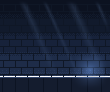
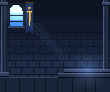
style(cosmetics): 전설의 검 — 자루를 크고 화려하게, 성소를 채워 덜 썰렁하게
- 자루: 가시 달린 금 받침의 큰 보석 자루끝, 사선으로 감은 가죽 손잡이, 끝이 처져 말리는
  날개 코등이와 가운데 마름모 보석. 칼날은 7칸으로 넓히고 푸른 룬을 새겼다
- 둘레: 바닥 룬 고리가 돌고, 수정 조각 셋이 검을 맴돌며(뒤로 갈 땐 칼날 뒤로), 제단과
  벽 아래에 파란 촛불이 깜빡인다
- 배경: 왼쪽 위 아치 창(빛줄기가 여기서 든다), 양옆 돌기둥, 금 검 문양의 푸른 깃발, 제단 두 계단

diff --git a/scripts/pixelfx/cards/card-sword.js b/scripts/pixelfx/cards/card-sword.js
@@ -1,80 +1,152 @@
-// Nexus card "전설의 검": a big sword planted upright in a cracked stone beside the portrait. A faint pillar of blue
-// light rises behind it, the cracks in the stone breathe with the same light, a glint runs down the blade once a
-// loop and motes drift up round it. (loot-beam's own sword lies flat and small; this one stands.)
-import { fit, ease, cycle, WHITE, hex, mix, rand } from "../../core/index.js";
+// Nexus card "전설의 검": a big sword planted upright in a cracked stone on an altar beside the portrait.
+// A pillar of blue light rises behind it, a rune ring turns on the floor, crystal shards orbit it, blue-flame
+// candles burn on the altar, the cracks in the stone breathe with the light and a glint runs down
+// the blade once a loop. (loot-beam's own sword lies flat and small; this one stands.)
+import { fit, ease, cycle, WHITE, hex, rand } from "../../core/index.js";
 import { glint } from "../pickups/_lib.js";
 import { CARD } from "./_card.js";
 
 export const meta = {
-  name: "Card: sword", desc: "A legendary sword planted upright in a cracked stone, a pillar of blue light behind it, a glint running down the blade.",
-  tags: ["card", "sword", "light", "loop"], ...CARD, duration: 3, loop: true, fps: 20, bg: "dark",
+  name: "Card: sword", desc: "A legendary sword planted in a cracked stone on an altar: a pillar of light, a turning rune ring, orbiting shards, blue candles.",
+  tags: ["card", "sword", "light", "loop"], ...CARD, duration: 4, loop: true, fps: 20, bg: "dark",
   options: { palette: ["#06122a", "#0c2450", "#123a86", "#1e5ec0", "#3a8af0", "#82c0ff", "#d4ecff", "#ffffff"], seed: 4 },
 };
 
 const D = meta.duration;
-// where the sword stands: blade axis x, the stone's top, the parts top to bottom
-const X = 88, STONE = 72, POMMEL = 28, GUARD = 39, BLADE0 = 42;
+// where the sword stands: blade axis x, the stone's top, the hilt top to bottom
+const X = 86, STONE = 68, POMMEL = 18, GUARD = 34, BLADE0 = 38;
 const INK = hex("#070a14");
 const STEEL = ["#2a3346", "#4b5875", "#8a9ab8", "#c9d6ee", "#f2f7ff"].map(hex);
-const GOLD = ["#5a3b12", "#9a6a1e", "#d6a23a", "#ffe08a"].map(hex);
-const LEATHER = ["#2a1610", "#4a2a1a", "#6e4228"].map(hex);
+const GOLD = ["#3d260a", "#7a5216", "#b8862a", "#e8bd52", "#fff0b0"].map(hex);
+const LEATHER = ["#1e0f0b", "#3e2216", "#5f3622", "#84513a"].map(hex);
 const ROCK = ["#141a28", "#222a3c", "#323d55", "#46536f"].map(hex);
+const WAX = ["#3a4258", "#6a7594", "#a3adc8"].map(hex);
+
+/** a small candle: a wax stick h tall with a drip, a blue flame that flickers on its own clock, a little light */
+function smallCandle(p, C, t, x, base, h, seed) {
+  p.rect(x - 2, base - h - 1, 5, h + 1, INK);
+  p.rect(x - 1, base - h, 3, h, WAX[1]);
+  p.rect(x - 1, base - h, 1, h, WAX[2]);
+  p.px(x + 1, base - h + 1 + (seed % 2), WAX[2]);
+  p.rect(x - 3, base, 7, 1, GOLD[1]);
+  const f = Math.sin(t * 9 + seed * 2) * 0.5 + Math.sin(t * 23 + seed) * 0.5, tall = 3 + (f > 0.3 ? 1 : 0), lean = f < -0.5 ? -1 : f > 0.7 ? 1 : 0;
+  const fy = base - h - 1;
+  p.px(x, fy, C[3]);
+  for (let k = 1; k <= tall; k++) p.px(x + (k === tall ? lean : 0), fy - k, k === 1 ? WHITE : k === 2 ? C[6] : C[5]);
+  if (tall > 3) p.px(x - 1 + (lean > 0 ? 2 : 0), fy - 1, C[5]);
+  p.glow(x, fy - 2, 9, C[5], 0.3 + 0.08 * f);
+}
+
+/** the hilt: a pommel gem in a gold cup with a spike, a diamond-wrapped grip, winged quillons with a gem at the heart */
+function hilt(p, C, breath) {
+  // pommel: spike, gold cup, a big round gem
+  p.rect(X, POMMEL - 4, 1, 2, INK); p.px(X, POMMEL - 3, GOLD[3]);
+  p.disc(X + 0.5, POMMEL + 1.5, 4.4, INK);
+  p.disc(X + 0.5, POMMEL + 1.5, 3.5, GOLD[2]);
+  p.disc(X + 0.2, POMMEL + 1.2, 3.5, GOLD[3], 0.6);
+  p.disc(X + 0.5, POMMEL + 1.5, 2.3, C[3]);
+  p.disc(X + 0.2, POMMEL + 1.2, 1.4, C[5]);
+  p.px(X - 1, POMMEL, WHITE);
+  p.glow(X, POMMEL + 1, 10, C[5], 0.4 * breath);
+  // a collar between pommel and grip
+  p.rect(X - 2, POMMEL + 5, 5, 2, INK); p.rect(X - 1, POMMEL + 5, 3, 1, GOLD[3]); p.rect(X - 1, POMMEL + 6, 3, 1, GOLD[1]);
+  // grip: 5 wide with an ink edge, leather wrapped in diagonal bands, lit on the left
+  for (let y = POMMEL + 7; y < GUARD - 1; y++) {
+    p.px(X - 2, y, INK); p.px(X + 2, y, INK);
+    for (let dx = -1; dx <= 1; dx++) {
+      const band = (y + dx) % 3 === 0;
+      p.px(X + dx, y, band ? LEATHER[0] : dx < 0 ? LEATHER[3] : dx === 0 ? LEATHER[2] : LEATHER[1]);
+    }
+  }
+  // quillons: a thick gold bar whose wings droop and curl at the tips
+  for (let dx = -12; dx <= 12; dx++) {
+    const a = Math.abs(dx), droop = Math.round(Math.pow(a / 12, 2.2) * 4), y0 = GUARD - 1 + droop, th = a > 10 ? 2 : 3;
+    p.px(X + dx, y0 - 1, INK);
+    for (let k = 0; k < th; k++) p.px(X + dx, y0 + k, k === 0 ? (dx < 0 ? GOLD[4] : GOLD[3]) : k === th - 1 ? GOLD[1] : GOLD[2]);
+    p.px(X + dx, y0 + th, INK);
+  }
+  // curled tips
+  for (const s of [-1, 1]) { p.px(X + s * 13, GUARD + 2, INK); p.px(X + s * 13, GUARD + 3, GOLD[2]); p.px(X + s * 13, GUARD + 4, INK); p.px(X + s * 12, GUARD + 5, INK); }
+  // a lozenge gem at the heart of the guard
+  for (let dy = -3; dy <= 3; dy++) {
+    const w = 3 - Math.abs(dy);
+    for (let dx = -w - 1; dx <= w + 1; dx++) p.px(X + dx, GUARD + 1 + dy, Math.abs(dx) === w + 1 ? INK : dx < 0 && dy < 0 ? C[6] : dy > 0 ? C[3] : C[4]);
+  }
+  p.px(X - 1, GUARD - 1, WHITE);
+  p.glow(X, GUARD + 1, 9, C[5], 0.35 * breath);
+}
 
 export function draw(p, t, o) {
   const C = fit(o.palette, 8), ph = t / D;
   const breath = 0.75 + 0.25 * Math.sin(ph * Math.PI * 2);
 
-  // the pillar of light behind it: soft, additive, widest at the stone, thinning to the sky
-  p.shade(X - 9, 0, X + 9, STONE, (x, y, out) => {
-    const d = Math.abs(x + 0.5 - X) / (3 + 5 * (y / STONE));
+  // the pillar of light behind it: additive, widest at the stone, thinning to the sky, pulses climbing it
+  p.shade(X - 11, 0, X + 11, STONE, (x, y, out) => {
+    const d = Math.abs(x + 0.5 - X) / (4 + 6 * (y / STONE));
     if (d >= 1) return;
-    const pulse = 0.5 + 0.5 * Math.sin((y / 10 + ph * 3) * Math.PI * 2);
+    const pulse = 0.5 + 0.5 * Math.sin((y / 9 + ph * 4) * Math.PI * 2);
     out.l = d < 0.35 ? C[6] : C[5];
-    out.k = (0.16 + 0.08 * pulse) * (1 - d) * (0.35 + 0.65 * (y / STONE)) * breath;
+    out.k = (0.2 + 0.1 * pulse) * (1 - d) * (0.3 + 0.7 * (y / STONE)) * breath;
   });
-  p.glow(X, STONE - 4, 26, C[4], 0.35 * breath);
+  p.glow(X, STONE - 6, 30, C[4], 0.4 * breath);
+
+  // the rune ring on the altar floor, round the stone: dashes of light that turn, brightest at the front
+  for (let i = 0; i < 64; i++) {
+    const a = (i / 64) * Math.PI * 2, x = X + Math.cos(a) * 22, y = STONE + 5 + Math.sin(a) * 3.5;
+    const on = (i + Math.floor(ph * 64)) % 8 < 5, front = Math.sin(a) > 0;
+    if (!on) continue;
+    p.px(x, y, front ? C[5] : C[3]);
+    if (front) p.glow(x, y, 3, C[5], 0.12 * breath);
+  }
+
+  // small candles on the altar and at the foot of the wall, blue flames
+  smallCandle(p, C, t, X - 20, STONE + 4, 6, 1);
+  smallCandle(p, C, t, X - 15, STONE + 6, 4, 2);
+  smallCandle(p, C, t, X + 17, STONE + 5, 5, 3);
+  smallCandle(p, C, t, 10, 78, 7, 4);
+  smallCandle(p, C, t, 16, 79, 4, 5);
+
+  // crystal shards orbiting the blade on a tilted ring: behind the blade when they're far, in front when near
+  const shard = (front) => {
+    for (let i = 0; i < 3; i++) {
+      const a = ph * Math.PI * 2 + (i * Math.PI * 2) / 3, near = Math.sin(a) > 0;
+      if (near !== front) continue;
+      const x = X + Math.cos(a) * 15, y = 48 + Math.sin(a) * 4 + 2 * Math.sin(ph * Math.PI * 4 + i);
+      const c = near ? C[6] : C[4];
+      p.px(x, y - 2, INK); p.px(x - 1, y - 1, INK); p.px(x + 1, y - 1, INK); p.px(x - 1, y, INK); p.px(x + 1, y, INK); p.px(x, y + 2, INK);
+      p.px(x, y - 1, c); p.px(x, y, near ? C[5] : C[3]); p.px(x, y + 1, C[3]);
+      p.glow(x, y, 5, C[5], near ? 0.3 : 0.12);
+    }
+  };
+  shard(false);
 
   // motes drifting up round the sword
-  cycle(t, D, 14, o.seed + 3, (g) => g.range(1.2, 2.2), (age, life, r) => {
-    const x = X + r.range(-10, 10) + 2 * Math.sin(age * 3 + r.range(0, 6)), y = STONE - 2 - age * r.range(12, 22);
+  cycle(t, D, 18, o.seed + 3, (g) => g.range(1.2, 2.2), (age, life, r) => {
+    const x = X + r.range(-12, 12) + 2 * Math.sin(age * 3 + r.range(0, 6)), y = STONE - 2 - age * r.range(12, 22);
     const k = Math.sin((age / life) * Math.PI);
     if (k > 0.55) p.px(x, y, k > 0.85 ? WHITE : C[6]);
     else if (k > 0.25) p.px(x, y, C[5]);
     p.glow(x, y, 3, C[5], 0.2 * k);
   });
 
-  // the blade: 5 px wide, an ink outline, a lit left bevel, a bright ridge, a dark right bevel, tapering into the stone
+  // the blade: 7 px wide with an ink outline, a lit left bevel, a bright ridge, a dark right bevel
   for (let y = BLADE0; y <= STONE + 1; y++) {
-    const taper = y > STONE - 4 ? 1 : 2; // narrower where it bites into the stone
-    for (let dx = -taper - 1; dx <= taper + 1; dx++) {
-      const edge = Math.abs(dx) === taper + 1;
-      p.px(X + dx, y, edge ? INK : dx < 0 ? STEEL[dx === -taper ? 3 : 2] : dx === 0 ? STEEL[4] : STEEL[1]);
+    const half = y > STONE - 5 ? 2 : 3;
+    for (let dx = -half; dx <= half; dx++) {
+      const edge = Math.abs(dx) === half;
+      p.px(X + dx, y, edge ? INK : dx < 0 ? STEEL[dx === -half + 1 ? 3 : 2] : dx === 0 ? STEEL[4] : STEEL[dx === 1 ? 1 : 0]);
     }
   }
-  // a fuller groove down the middle of the upper blade
-  for (let y = BLADE0 + 2; y < BLADE0 + 14; y++) p.px(X, y, STEEL[2]);
-  // the guard: a gold bar with curled ends, a blue stone at its heart
-  p.rect(X - 8, GUARD - 1, 17, 5, INK);
-  p.rect(X - 7, GUARD, 15, 3, GOLD[2]);
-  p.rect(X - 7, GUARD, 15, 1, GOLD[3]);
-  p.rect(X - 7, GUARD + 2, 15, 1, GOLD[1]);
-  for (const s of [-1, 1]) { p.px(X + s * 8, GUARD - 2, INK); p.px(X + s * 7, GUARD - 1, GOLD[1]); }
-  p.rect(X - 1, GUARD, 3, 3, C[4]);
-  p.px(X, GUARD + 1, C[6]);
-  p.px(X - 1, GUARD, WHITE);
-  // the grip: leather wraps
-  p.rect(X - 2, POMMEL + 3, 5, GUARD - POMMEL - 3, INK);
-  for (let y = POMMEL + 4; y < GUARD - 1; y++) for (let dx = -1; dx <= 1; dx++) p.px(X + dx, y, LEATHER[(y + (dx < 0 ? 1 : 0)) % 2 ? 2 : 1]);
-  // the pommel: a round blue stone in a gold cup, glowing with the pillar
-  p.disc(X + 0.5, POMMEL + 1.5, 3.2, INK);
-  p.disc(X + 0.5, POMMEL + 1.5, 2.3, GOLD[1]);
-  p.disc(X + 0.5, POMMEL + 1.5, 1.4, C[4]);
-  p.px(X - 1, POMMEL, C[7]);
-  p.glow(X, POMMEL + 1, 8, C[5], 0.35 * breath);
+  // a fuller groove and a blue rune etched into the upper blade
+  for (let y = BLADE0 + 2; y < BLADE0 + 16; y++) p.px(X, y, STEEL[2]);
+  for (const [dx, dy] of [[0, 5], [-1, 6], [1, 6], [0, 7], [0, 10], [-1, 11], [0, 12]]) p.px(X + dx, BLADE0 + dy, C[5]);
+  p.glow(X, BLADE0 + 8, 6, C[5], 0.25 * breath);
+  hilt(p, C, breath);
+  shard(true);
 
-  // the stone it is buried in: a lumpy rock, lit from the left, cracks glowing blue
-  p.shade(X - 13, STONE - 4, X + 13, STONE + 10, (x, y, out) => {
-    const dx = (x + 0.5 - X) / 13, top = STONE - 3 + Math.round(3 * dx * dx + rand(Math.floor(x / 3), 11));
+  // the stone it is buried in: a lumpy rock, lit from the left, a few cracks glowing blue
+  p.shade(X - 14, STONE - 4, X + 14, STONE + 10, (x, y, out) => {
+    const dx = (x + 0.5 - X) / 14, top = STONE - 3 + Math.round(3 * dx * dx + rand(Math.floor(x / 3), 11));
     if (y < top) return;
     if (y === top) return dx < 0 ? ROCK[3] : ROCK[2];
     const crack = rand(x, y, 5) < 0.012 || (Math.abs(x - X) === 2 && y < STONE + 4) || (Math.abs(x - X - (y - STONE) * 0.8) < 0.6 && y > STONE);

diff --git a/scripts/pixelfx/cards/bg-sword.js b/scripts/pixelfx/cards/bg-sword.js
@@ -1,30 +1,84 @@
-// Nexus card "전설의 검" backdrop: a dark stone sanctum, shafts of light falling from above, a worn altar floor.
-import { sky, halo, ridge, W, H } from "./_bg.js";
+// Nexus card "전설의 검" backdrop: a dark stone sanctum. An arched window high on the left throws shafts of light
+// across it, stone pillars stand at both edges, a blue banner with a gold sword hangs by the window, and the sword's
+// altar is two worn steps on the right.
+import { sky, halo, W } from "./_bg.js";
 import { CARD } from "./_card.js";
 import { hex, rand } from "../../core/index.js";
-export const meta = { name: "Card bg: sword", desc: "Stone sanctum with shafts of light.", tags: ["card", "bg"], ...CARD, duration: 0.05, loop: true, fps: 20, bg: "dark", options: { seed: 1 } };
+export const meta = { name: "Card bg: sword", desc: "Stone sanctum: arched window, light shafts, pillars, banner, altar steps.", tags: ["card", "bg"], ...CARD, duration: 0.05, loop: true, fps: 20, bg: "dark", options: { seed: 1 } };
+
+const INK = hex("#070a14");
+const STONE = ["#121a2a", "#1a2438", "#243049", "#33415e", "#4a5a7c"].map(hex);
+const GOLD = ["#5a3b12", "#b8862a", "#e8bd52"].map(hex);
+
+function pillar(p, x, w) {
+  p.rect(x, 0, w, 80, STONE[2]);
+  p.rect(x, 0, 1, 80, STONE[4]);
+  p.rect(x + w - 1, 0, 1, 80, STONE[0]);
+  for (let k = 2; k < w - 2; k += 2) p.rect(x + k, 6, 1, 66, STONE[1]); // flutes
+  // capital and base
+  p.rect(x - 1, 2, w + 2, 4, STONE[3]); p.rect(x - 1, 2, w + 2, 1, STONE[4]); p.rect(x - 1, 5, w + 2, 1, INK);
+  p.rect(x - 2, 72, w + 4, 5, STONE[3]); p.rect(x - 2, 72, w + 4, 1, STONE[4]); p.rect(x - 2, 76, w + 4, 1, INK);
+}
 
 export function draw(p) {
-  sky(p, ["#0c1220", "#111a2c", "#17223a", "#1e2c48", "#263656"], 0, 76, 1);
-  // stone blocks on the back wall: a slightly darker mortar grid, rows offset
+  sky(p, ["#0c1220", "#111a2c", "#17223a", "#1e2c48", "#263656"], 0, 80, 1);
+  // stone blocks on the back wall: a darker mortar grid, rows offset
   const mortar = hex("#0f1726");
-  for (let y = 4; y < 76; y += 7) {
+  for (let y = 4; y < 80; y += 7) {
     p.rect(0, y, W, 1, mortar);
     for (let x = ((y / 7) % 2) * 6; x < W; x += 12) p.rect(x, y, 1, 7, mortar);
   }
-  // shafts of light slanting down from a high window
+
+  // the arched window, high on the left: an ink frame, mullions, glass bright at the top
+  const WX = 10, WY = 5, WW = 13, WH = 22, r = WW / 2;
+  p.shade(WX - 1, WY - 1, WX + WW, WY + WH, (x, y) => {
+    const cx = WX + r - 0.5, top = WY + r;
+    const inside = y >= top ? x >= WX && x < WX + WW : Math.hypot(x - cx, y - top) <= r;
+    const frame = y >= top ? x >= WX - 1 && x <= WX + WW : Math.hypot(x - cx, y - top) <= r + 1.2;
+    if (!frame) return;
+    if (!inside || y >= WY + WH - 1) return INK;
+    if (x === Math.round(cx) || y === top + 4 || y === top + 10) return INK; // lead
+    return (y - WY) / WH < 0.35 ? hex("#d4ecff") : (y - WY) / WH < 0.7 ? hex("#82c0ff") : hex("#3a8af0");
+  });
+  p.rect(WX - 2, WY + WH - 1, WW + 4, 2, STONE[3]); // sill
+  halo(p, WX + r, WY + 8, 22, "#8fb4e8", 0.35);
+
+  // shafts of light slanting from the window down to the right
   const beam = hex("#8fb4e8");
-  p.shade(0, 0, W - 1, 78, (x, y, o) => {
-    const u = (x - 0.45 * y);
-    for (const [c, w] of [[22, 5], [44, 3], [70, 6], [96, 3]]) {
+  p.shade(0, WY, W - 1, 80, (x, y, o) => {
+    const u = x - (y - WY) * 0.9;
+    for (const [c, w] of [[WX + 2, 2.5], [WX + 7, 3.5], [WX + 11, 2]]) {
       const d = Math.abs(u - c) / w;
-      if (d < 1) { o.l = beam; o.k = 0.14 * (1 - d) * (1 - y / 90); return; }
+      if (d < 1 && y > WY + WH - 4) { o.l = beam; o.k = 0.13 * (1 - d) * (1 - (y - WY) / 90); return; }
     }
   });
-  halo(p, 90, 70, 24, "#7fb0ff", 0.35);
-  // the floor: flagstones with lit edges
-  ridge(p, 77, 0, 10, 1, "#141c2e");
-  const edge = hex("#33456a"), crack = hex("#0c1322");
-  p.rect(0, 77, W, 1, edge);
-  for (let x = 0; x < W; x += 14) p.rect(x + Math.round(rand(x, 3) * 4), 78, 1, 14, crack);
+
+  // a banner by the window: dark blue cloth, gold trim and a gold sword, a swallowtail hem
+  const BX = 26, BW = 7;
+  p.rect(BX - 1, 2, BW + 2, 1, GOLD[0]);
+  p.shade(BX, 3, BX + BW - 1, 34, (x, y) => {
+    const hem = 30 + Math.abs(x - (BX + 3)) ;
+    if (y > hem) return;
+    if (x === BX || x === BX + BW - 1) return GOLD[1];
+    return y % 9 === 0 ? hex("#16264a") : hex("#1c3160");
+  });
+  // the emblem: a sword point-down — round pommel, grip, a guard with drooping ends, a long blade to a point
+  p.rect(BX + 2, 7, 3, 2, GOLD[1]); p.px(BX + 3, 7, GOLD[2]);
+  p.px(BX + 3, 9, GOLD[0]); p.px(BX + 3, 10, GOLD[0]);
+  p.rect(BX + 1, 11, 5, 1, GOLD[2]); p.px(BX + 1, 12, GOLD[1]); p.px(BX + 5, 12, GOLD[1]);
+  for (let y = 12; y < 25; y++) { p.px(BX + 3, y, GOLD[2]); if (y < 22) p.px(BX + 4, y, GOLD[1]); }
+  p.px(BX + 3, 25, GOLD[1]);
+
+  // pillars at both edges
+  pillar(p, 1, 6);
+  pillar(p, W - 7, 6);
+
+  // the floor and the altar: two worn steps on the right under the sword
+  p.rect(0, 77, W, 15, STONE[1]);
+  p.rect(0, 77, W, 1, STONE[3]);
+  p.rect(58, 73, 52, 5, STONE[2]); p.rect(58, 73, 52, 1, STONE[4]); p.rect(58, 77, 52, 1, INK);
+  p.rect(64, 69, 46, 4, STONE[3]); p.rect(64, 69, 46, 1, STONE[4]); p.rect(64, 72, 46, 1, INK);
+  const crack = hex("#0c1322");
+  for (let x = 4; x < W; x += 13) p.rect(x + Math.round(rand(x, 3) * 4), 78, 1, 14, crack);
+  halo(p, 88, 70, 26, "#7fb0ff", 0.3);
 }

diff --git a/apps/web/src/components/cosmetics/effects.tsx b/apps/web/src/components/cosmetics/effects.tsx
@@ -214,7 +214,7 @@ const CARD_SHEETS = {
   slime: { frames: 72, columns: 8, src: "slime", bg: "slime" },
   ghost: { frames: 96, columns: 9, src: "ghost", bg: "ghost" },
   bats: { frames: 96, columns: 9, src: "bats", bg: "bats" },
-  sword: { frames: 60, columns: 8, src: "sword", bg: "sword" },
+  sword: { frames: 80, columns: 9, src: "sword", bg: "sword" },
   storm: { frames: 120, columns: 11, src: "storm", bg: "storm" },
 } as const;
 
@@ -344,7 +344,10 @@ function BatsFx() {
 
 /* ───────── 전설의 검 ───────── */
 
-/** 초상화 옆 바위에 꽂힌 큰 검 — 뒤로 푸른 빛기둥이 솟고, 칼날을 따라 반짝임이 흐른다 */
+/**
+ * 돌 성소의 제단, 바위에 꽂힌 큰 검 — 날개 코등이·보석 자루끝, 뒤로 푸른 빛기둥이 솟고
+ * 바닥 룬 고리가 돌며 수정 조각이 검을 맴돈다. 파란 촛불, 아치 창에서 드는 빛줄기, 기둥·깃발.
+ */
 function SwordFx() {
   return <CardSheet name="sword" />;
 }

diff --git a/apps/web/src/components/cosmetics/catalog.ts b/apps/web/src/components/cosmetics/catalog.ts
@@ -152,7 +152,8 @@ const COSMETIC_DEFS: CosmeticItem[] = [
     code: "FX_SWORD",
     slot: "CARD_FRAME",
     name: "전설의 검",
-    description: "빛이 드는 돌 성소, 꽂힌 검에서 푸른 빛기둥이 솟아오른다",
+    description:
+      "빛이 드는 돌 성소의 제단, 바위에 꽂힌 검에서 푸른 빛기둥이 솟고 수정 조각이 맴돈다",
     price: 900,
     rarity: "PREMIUM",
     className: "bg-slate-400/80",
